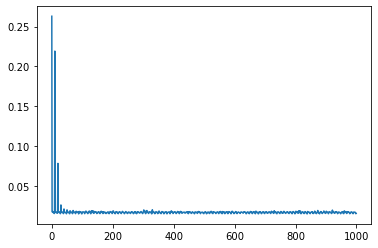
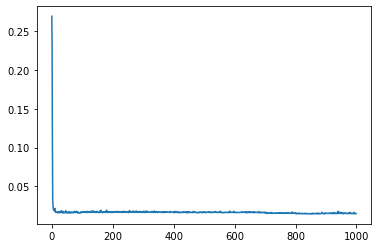
edit hist plot

diff --git a/_posts/2020-09-20-Time-Series-Prediction-With-LSTM.md b/_posts/2020-09-20-Time-Series-Prediction-With-LSTM.md
@@ -223,11 +223,11 @@ Epoch  10 train loss: 0.0176 test loss: 0.0201
 
 loss의 변화를 그려보면 아래와 같았다.
 ```python
-plt.plot(train_hist.flatten())
+plt.plot(train_hist.transpose().flatten())
 ```
 ![train_hist](/assets/train_hist.png)
 ```python
-plt.plot(test_hist.flatten())
+plt.plot(test_hist.transpose().flatten())
 ```
 ![test_hist](/assets/test_hist.png)
 
